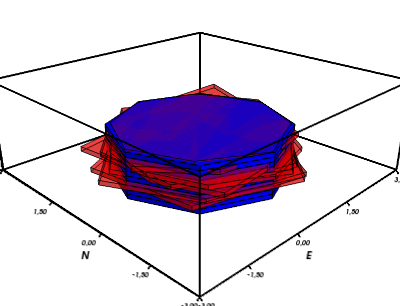
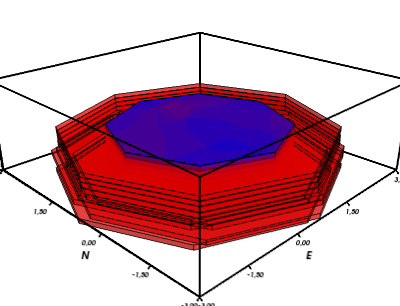
change to approximation for the exponential function

Changed region(s): [[0.12, 0.2647, 0.87, 0.8235]]

diff --git a/code/mag_polyprism_functions.py b/code/mag_polyprism_functions.py
@@ -7,6 +7,7 @@ from fatiando.gravmag import polyprism
 from fatiando.mesher import PolygonalPrism
 from fatiando.constants import CM, T2NT
 from copy import deepcopy
+from math import factorial
 
 ### Functions for the foward problem using fatiando
 
@@ -159,6 +160,8 @@ def param2polyprism(m, M, L, z0, dz, props):
     '''
     P = L*(M + 2)
     assert m.size == P, 'The size of m must be equal to L*(M + 2)'
+    for i in range(P):
+        assert m[i:i+M].all >= 0., 'The radial distances must be positives'
     
     r = np.zeros(M) # vector for radial distances
     mv = [] # list of prisms    
@@ -1399,8 +1402,8 @@ def trans_parameter2(m, M, L, mmax, mmin):
     assert mmax.size == L*(M + 2), 'The size of mmax must be equal to L*(M + 2)'
     assert mmin.size == L*(M + 2), 'The size of mmin must be equal to L*(M + 2)'
     assert m.size == L*(M + 2), 'The size of m must be equal to L*(M + 2)'
-    npt.assert_array_less(m, mmax), 'mmax must be greater than m'
-    npt.assert_array_less(mmin, m), 'm must be greater than mmin'
+    assert np.alltrue(m < (mmax + 1e-12)), 'mmax must be greater than m'
+    assert np.alltrue((mmin - 1e-12) < m), 'm must be greater than mmin'
 
     mt = -np.log((mmax - m)/(m - mmin + 1e-15))
 
@@ -1468,10 +1471,15 @@ def trans_inv_parameter2(mt, M, L, mmax, mmin):
     assert len(mmax) == L*(M + 2), 'The size of mmax must be equal to L*(M + 2)'
     assert len(mmin) == L*(M + 2), 'The size of mmin must be equal to L*(M + 2)'
     assert len(mt) == L*(M + 2), 'The size of m must be equal to L*(M + 2)'
+    
+    exp_sum =0.0
+    for n in range (M):
+        f         = factorial(n)
+        power     = (-mt)**n
+        nth_term  = power/f
+        exp_sum   = exp_sum + nth_term
 
-    #m = 0.001*mmin + (0.001*(mmax - mmin))/(1. + np.exp(-0.001*mt))
-    m = mmin + (mmax - mmin)/(1. + np.exp(-mt))
-    #m *= 1000.
+    m = mmin + (mmax - mmin)/(1. + exp_sum)
 
     return m
     
@@ -1529,9 +1537,9 @@ def Hessian_data(xp, yp, zp, m, M, L, deltax, deltay, deltar, inc, dec):
     
     input
     
-    xp: array - x observation points
-    yp: array - y observation points
-    zp: array - z observation points
+    xp: 1D array - x observation points
+    yp: 1D array - y observation points
+    zp: 1D array - z observation points
     m: list - each element is a list of [r, x0, y0, z1, z2, 'magnetization'],
               whrere r is an array with the radial distances of the vertices,
               x0 and y0 are the origin cartesian coordinates of each prism,
@@ -1560,6 +1568,44 @@ def Hessian_data(xp, yp, zp, m, M, L, deltax, deltay, deltar, inc, dec):
     H = 2*np.dot(G.T, G)/xp.size
     
     return H
+
+def build_range_param(M, L, rmin, rmax, x0min, x0max, y0min, y0max):
+    '''
+    Returns vectors of maximum and minimum values of
+    parameters
+    
+    input
+    
+    rmin: float - minimum value of radial distances
+    rmax: float - maximum value of radial distances
+    x0min: float - minimum value of x Cartesian coordinate of the origins
+    x0max: float - maximum value of x Cartesian coordinate of the origins
+    y0max: float - minimum value of y Cartesian coordinate of the origins
+    y0min: float - maximum value of y Cartesian coordinate of the origins
+    
+    output
+    
+    mmin: 1D array - vector of minimum values of parameters
+    mmax: 1D array - vector of maximum values of parameters
+    '''
+    assert rmin >= 0., 'The minimum value of radial distances must be positive'
+    assert rmax >= 0., 'The maximum value of radial distances must be positive'
+    
+    P = L*(M+2)
+    mmax = np.zeros(M+2)
+    mmin = np.zeros(M+2)
+
+    mmax[:M] = rmax
+    mmax[M] = x0max
+    mmax[M+1] = y0max
+    mmin[:M] = rmin
+    mmin[M] = x0min
+    mmin[M+1] = y0min
+
+    mmax = np.resize(mmax, P)
+    mmin = np.resize(mmin, P)
+    
+    return mmin, mmax
 
 def levmq(xp, yp, zp, lini, M, L, delta, lamb, mmin, mmax, mout, dobs, inc, dec):
     '''

diff --git a/code/polyprism_tests.py b/code/polyprism_tests.py
@@ -1029,9 +1029,10 @@ def test_phi_6_arranged():
     L = 3   # number of prisms
     P = L*(M + 2) # number of parameters
     alpha = 1. # regularization
-    m = np.arange(1., P+1., 1.) # gradient
-    phi_ref = 597.*alpha
-    phi = mfun.phi_6(M, L, m, alpha)
+    m = np.arange(1., M+1., 1.) # gradient
+    m6 = np.resize(m, P)
+    phi_ref = np.sum(m*m)*L*alpha
+    phi = mfun.phi_6(M, L, m6, alpha)
         
     npt.assert_almost_equal(phi, phi_ref), 'The value of constraint is not correct'
     
